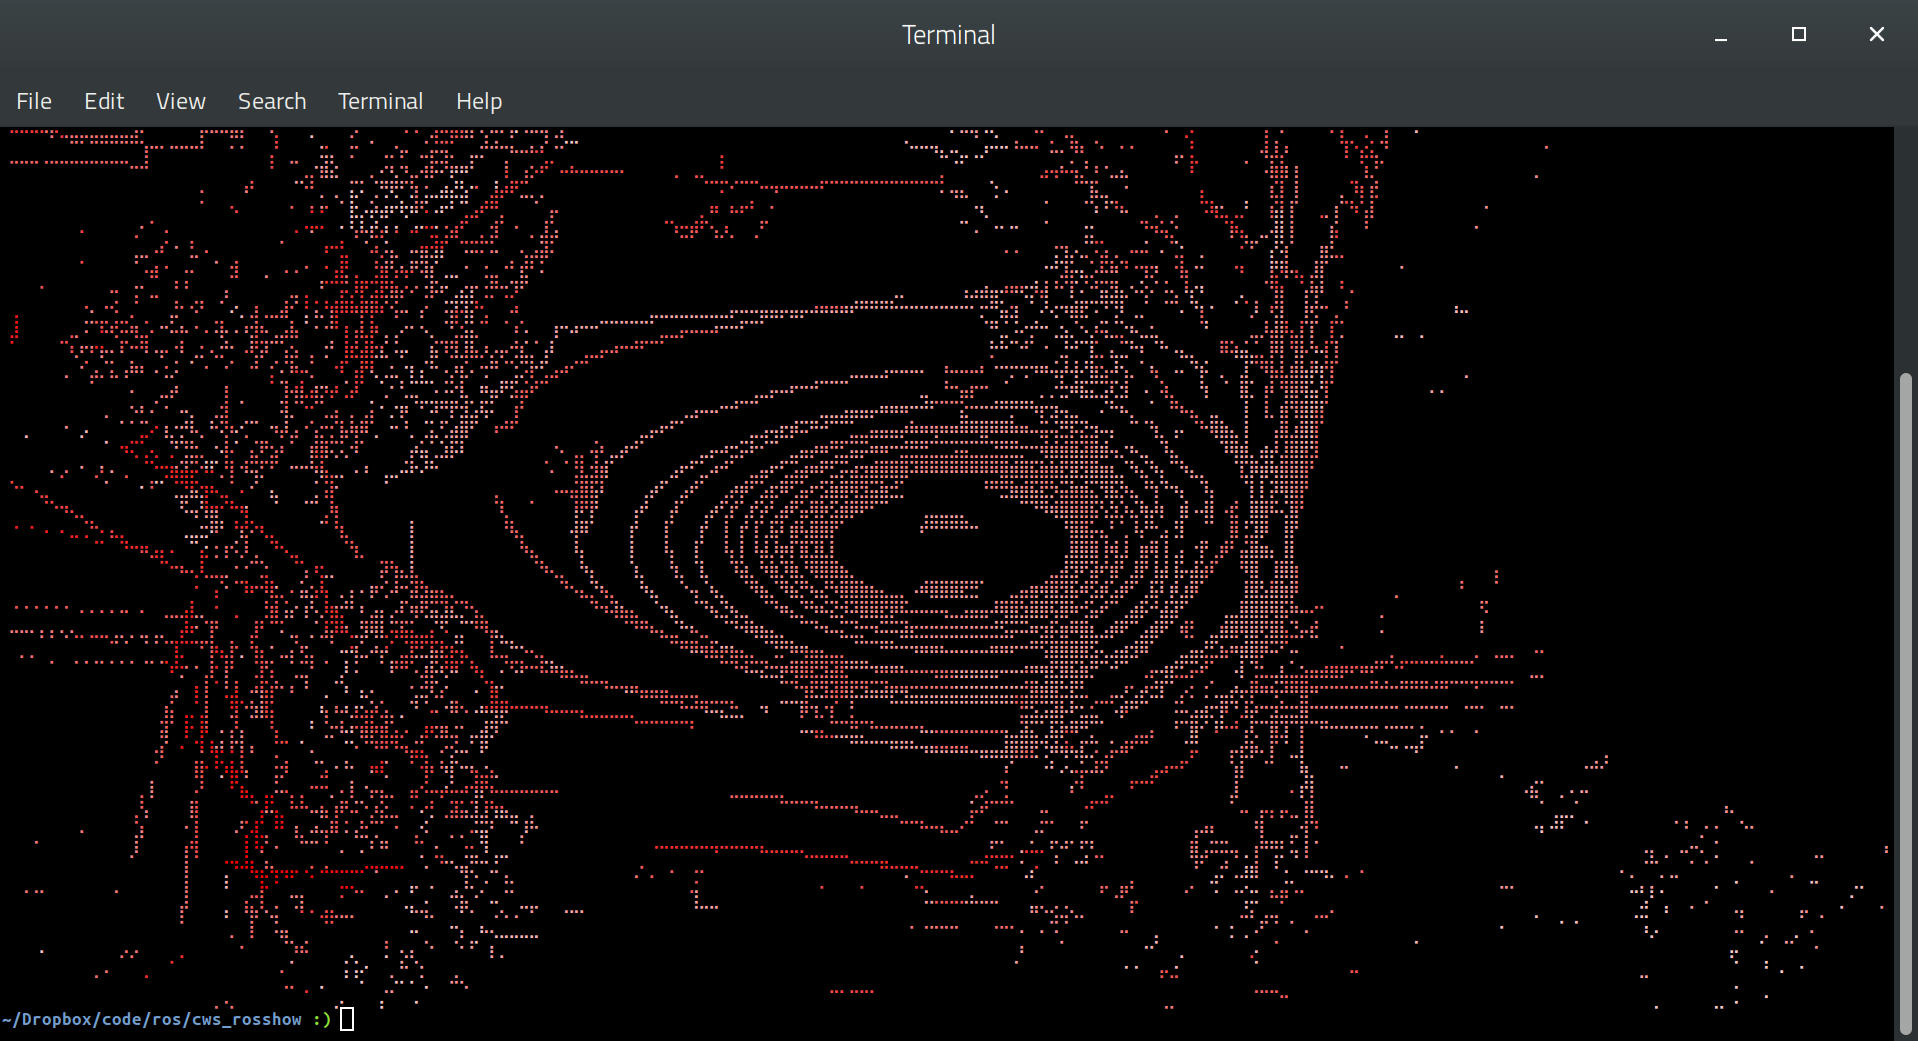
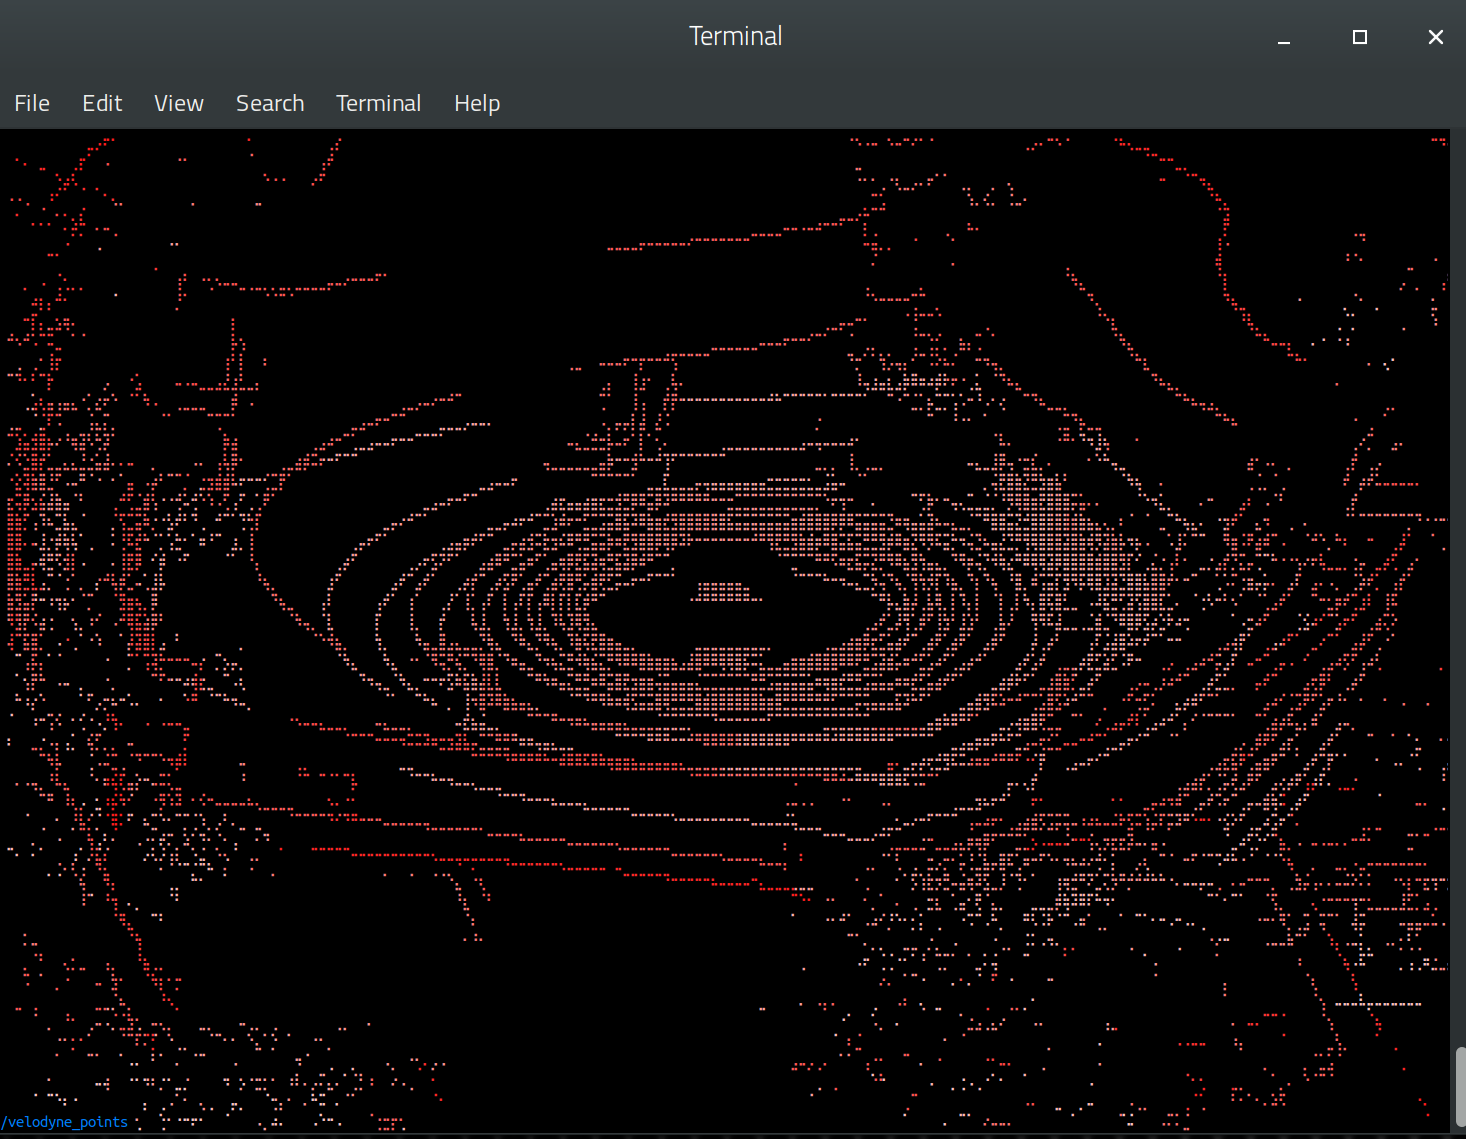
fix scaling

diff --git a/rosshow/src/librosshow/plotters.py b/rosshow/src/librosshow/plotters.py
@@ -41,11 +41,11 @@ class ScopePlotter(object):
         absvalue = np.abs(value)
         abslogscale = np.ceil(np.log(absvalue) / np.log(10) * 3)
         if abslogscale % 3 == 0:
-            return np.sign(value) * (10 ** (abslogscale / 3))
+            return np.sign(value) * (1 * 10 ** (abslogscale / 3))
         if abslogscale % 3 == 1:
-            return np.sign(value) * (20 ** ((abslogscale - 1) / 3))
+            return np.sign(value) * (2 * 10 ** ((abslogscale - 1) / 3))
         if abslogscale % 3 == 2:
-            return np.sign(value) * (50 ** ((abslogscale - 2) / 3))
+            return np.sign(value) * (5 * 10 ** ((abslogscale - 2) / 3))
 
     def update(self, value):
         self.data[self.pointer] = value
